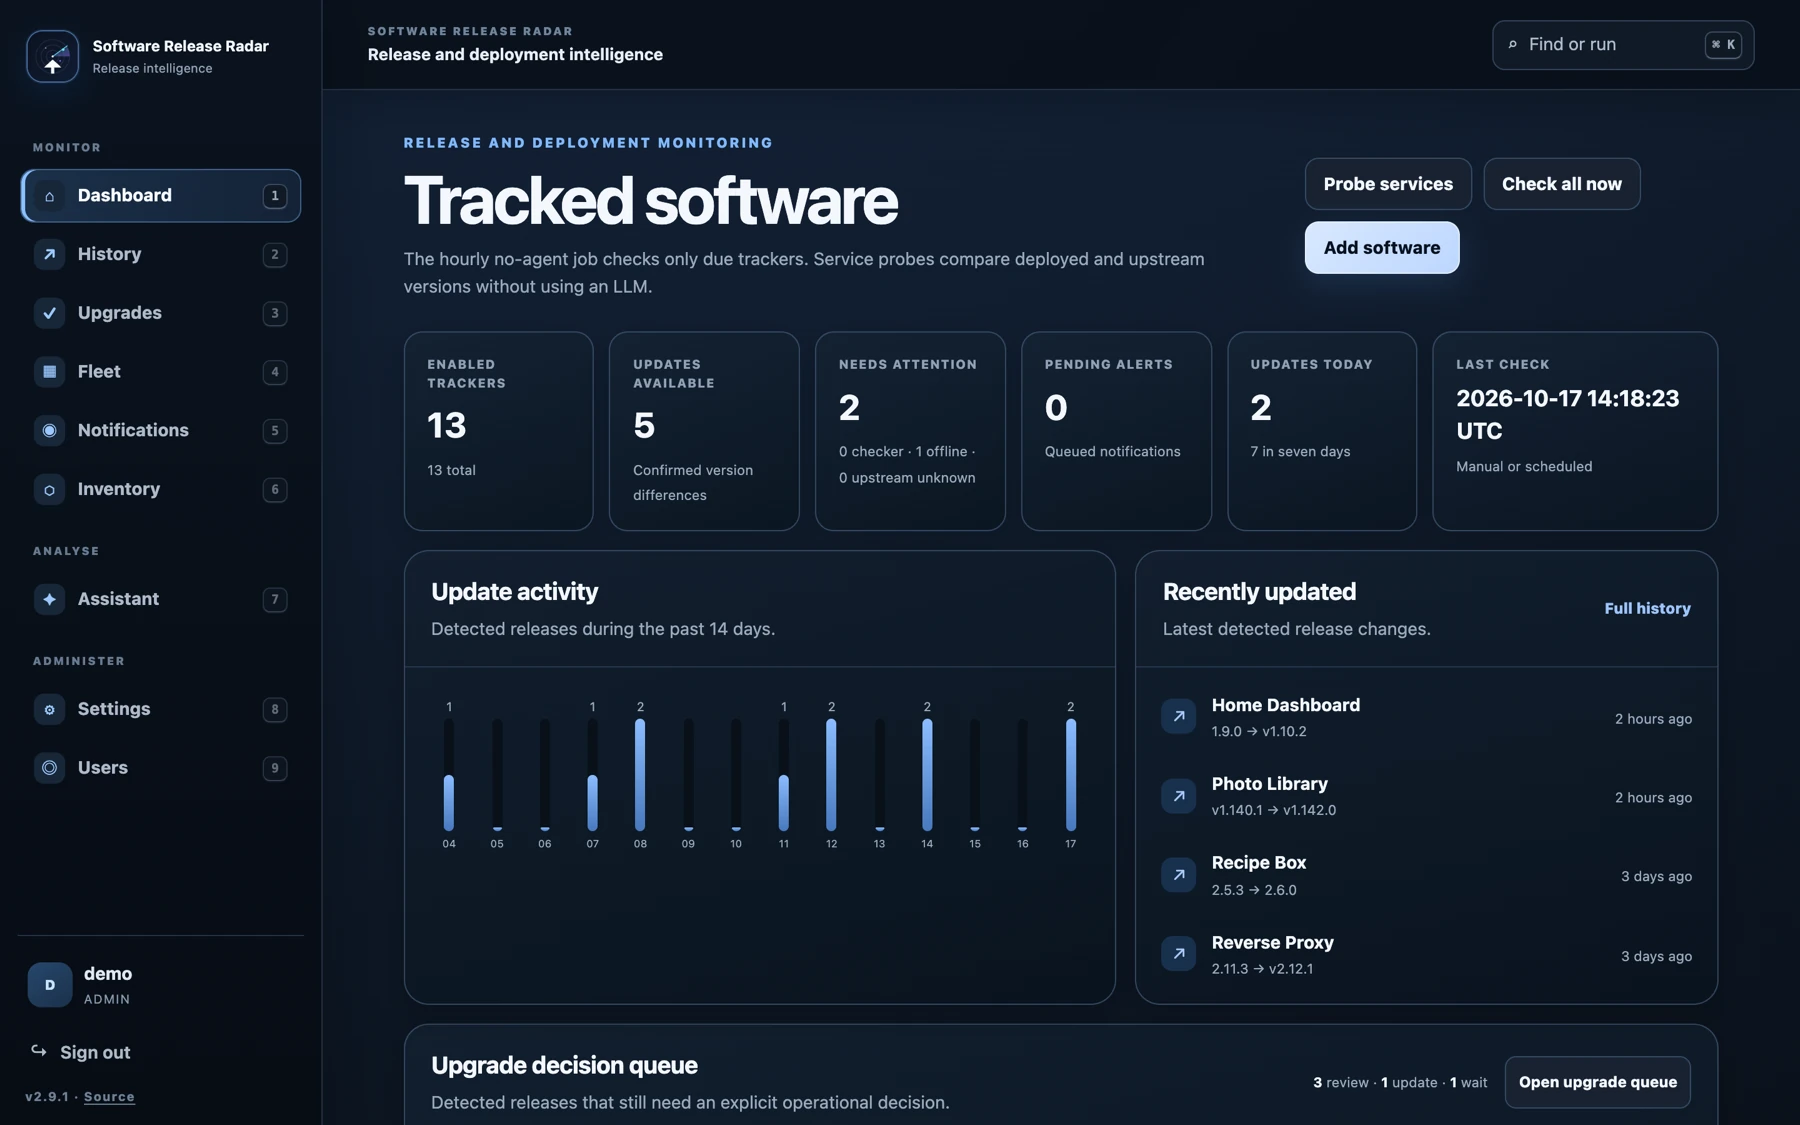
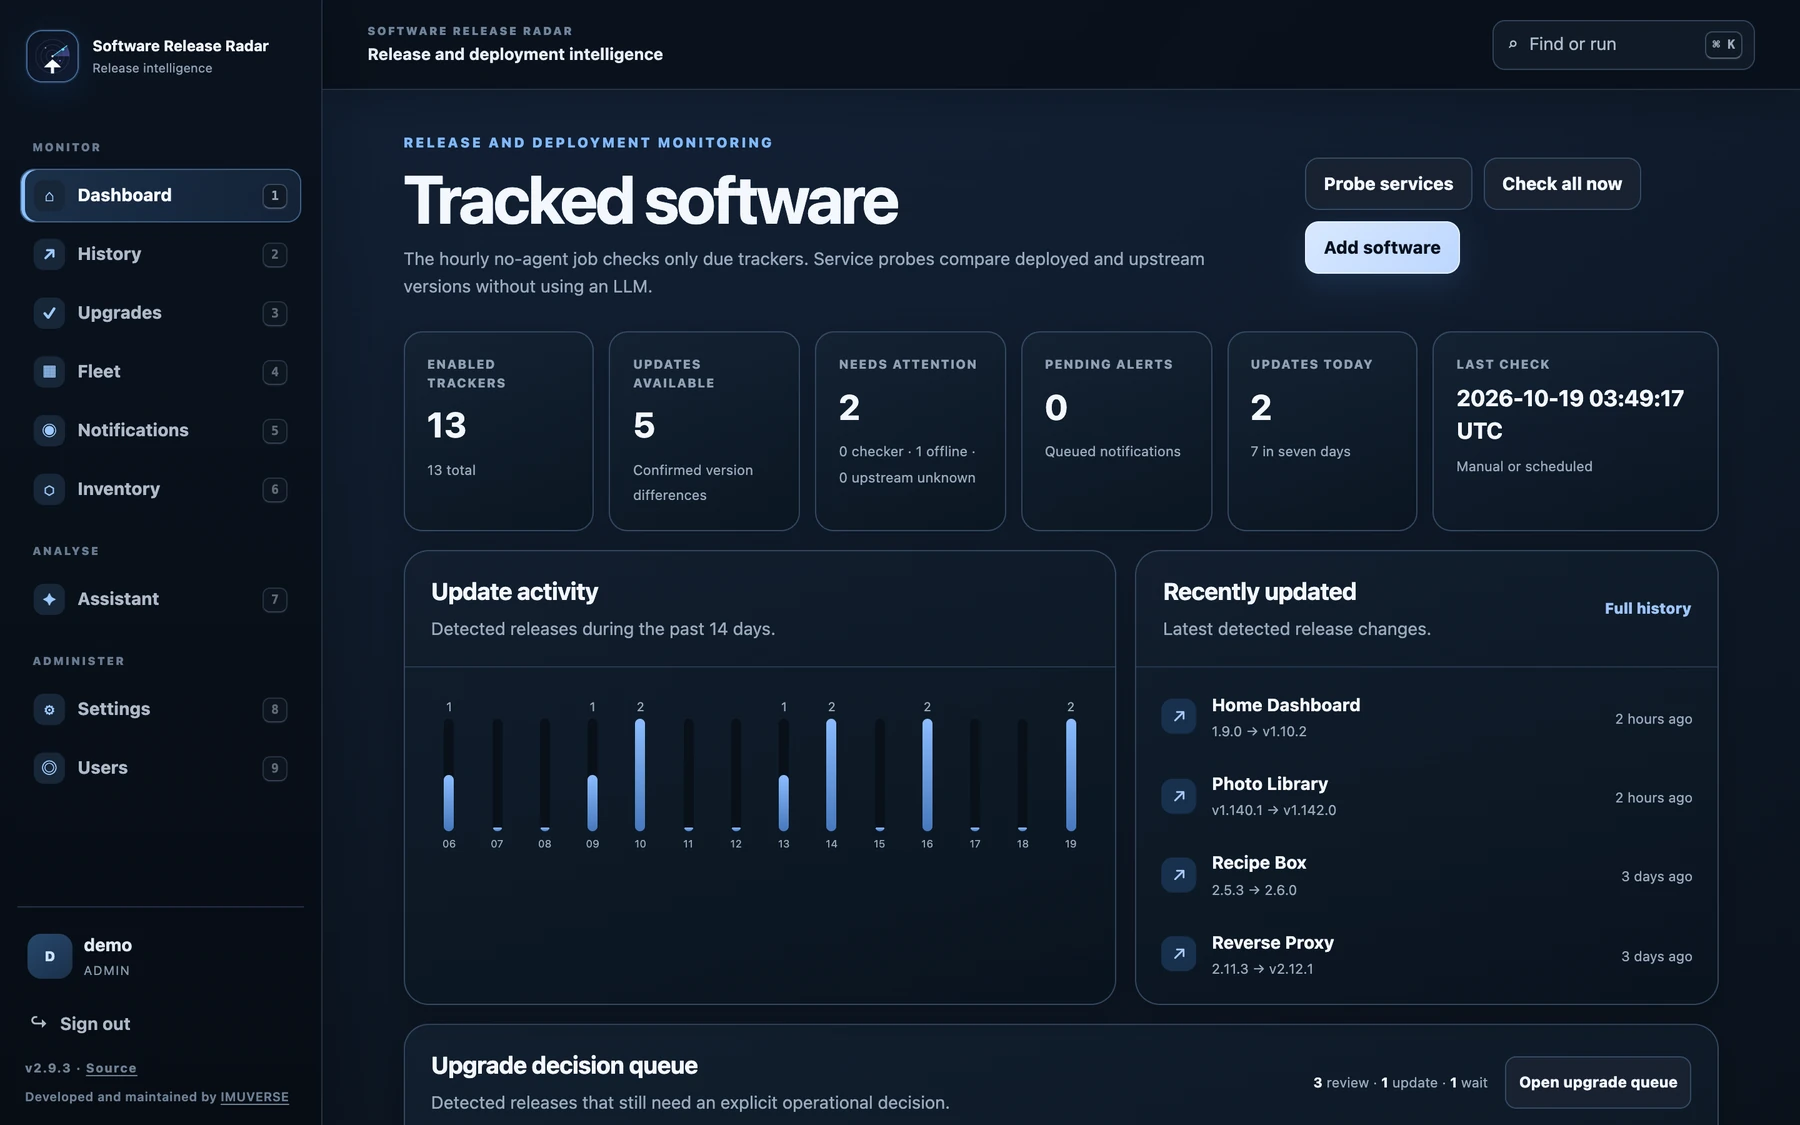
Release v2.9.3 with IMUVERSE attribution (#48)
- State that Software Release Radar is developed and maintained by
  IMUVERSE, linking to https://imuverse.com, in the README header and
  footer, the application sidebar and the sign-in page.
- Refresh the four README screen captures for v2.9.3 from the same
  fictional demo data (invented names, demo-org/* repositories,
  192.0.2.x documentation addresses).
- Bump the version to 2.9.3 and add the changelog entry.

Changed region(s): [[0.0, 0.8089, 0.1556, 0.9956], [0.8711, 0.3422, 0.9333, 0.3733], [0.0622, 0.0311, 0.1244, 0.0622]]

diff --git a/radar/templates/base.html b/radar/templates/base.html
@@ -52,6 +52,7 @@
         <button class="nav-button sign-out-button" type="submit"><span aria-hidden="true">↪</span><span>Sign out</span></button>
       </form>
       <span class="sidebar-version" aria-label="Software Release Radar version">v{{ app_version }} · <a href="https://github.com/muhdusama/Software-Release-Radar" target="_blank" rel="noreferrer">Source</a></span>
+      <span class="sidebar-version sidebar-credit">Developed and maintained by <a href="https://imuverse.com" target="_blank" rel="noreferrer">IMUVERSE</a></span>
     </div>
   </aside>
 

diff --git a/radar/templates/login.html b/radar/templates/login.html
@@ -14,5 +14,6 @@
     <button class="button primary wide" type="submit">Sign in</button>
   </form>
   <a class="subtle-link" href="{{ url_for('forgot_password') }}">Forgot password?</a>
+  <p class="auth-credit">Developed and maintained by <a href="https://imuverse.com" target="_blank" rel="noreferrer">IMUVERSE</a></p>
 </section>
 {% endblock %}

diff --git a/radar/static/ui-polish.css b/radar/static/ui-polish.css
@@ -99,3 +99,6 @@
 .fleet-card:has(.inline-name-editor[open]){position:relative;z-index:30}
 .inline-name-editor[open]{z-index:35}
 .flash+.list-summary{margin-top:12px}
+.sidebar-credit{letter-spacing:.02em;font-weight:600}
+.auth-credit{margin:18px 0 0;color:var(--muted);font-size:12px}
+.auth-credit a{font-weight:700}

diff --git a/tests/test_ui_release_polish.py b/tests/test_ui_release_polish.py
@@ -19,6 +19,9 @@ class UIReleasePolishTests(unittest.TestCase):
         self.assertNotIn("{% set app_version", self.base)
         self.assertIn('class="sidebar-version"', self.base)
         self.assertIn('href="https://github.com/muhdusama/Software-Release-Radar"', self.base)
+        self.assertIn('Developed and maintained by <a href="https://imuverse.com"', self.base)
+        login = (self.root / "radar" / "templates" / "login.html").read_text()
+        self.assertIn('Developed and maintained by <a href="https://imuverse.com"', login)
         self.assertIn('v{{ app_version }}', self.base)
         self.assertIn("filename='ui-polish.css', v=app_version", self.base)
 

diff --git a/radar/version.py b/radar/version.py
@@ -1,1 +1,1 @@
-APP_VERSION = "2.9.2"
+APP_VERSION = "2.9.3"

diff --git a/README.md b/README.md
@@ -3,12 +3,14 @@
 </p>
 
 <p align="center">
-  <img alt="Version 2.9.2" src="https://img.shields.io/badge/version-2.9.2-2f81f7">
+  <img alt="Version 2.9.3" src="https://img.shields.io/badge/version-2.9.3-2f81f7">
   <img alt="Python 3.13 application" src="https://img.shields.io/badge/app-Python%203.13-3776AB?logo=python&logoColor=white">
   <img alt="Docker Compose deployment" src="https://img.shields.io/badge/deploy-Docker%20Compose-2496ED?logo=docker&logoColor=white">
   <img alt="AGPL 3.0 licence" src="https://img.shields.io/badge/licence-AGPL--3.0-663399">
   <img alt="AI is optional" src="https://img.shields.io/badge/AI-optional-64748b">
 </p>
+
+<p align="center">Developed and maintained by <a href="https://imuverse.com"><strong>IMUVERSE</strong></a></p>
 
 <p align="center">
   <a href="#-quick-start">Quick start</a> ·
@@ -22,7 +24,7 @@
 </p>
 
 > [!IMPORTANT]
-> **Latest release: [v2.9.2](https://github.com/muhdusama/Software-Release-Radar/releases/latest).** This maintenance update fixes a Fleet layout overlap, removes Gunicorn's unused control-socket start-up error and restricts backup file permissions. v2.9 also includes Dockhand inventory, global notification defaults and strengthened integration security. Multi-architecture images are published to GHCR. See the [changelog](CHANGELOG.md).
+> **Latest release: [v2.9.3](https://github.com/muhdusama/Software-Release-Radar/releases/latest).** This update adds IMUVERSE attribution in the application. Recent v2.9 maintenance fixed a Fleet layout overlap, removed Gunicorn's unused control-socket start-up error and restricted backup file permissions. v2.9 also includes Dockhand inventory, global notification defaults and strengthened integration security. Multi-architecture images are published to GHCR. See the [changelog](CHANGELOG.md).
 
 # 📡 What is Software Release Radar?
 
@@ -132,7 +134,7 @@ Read **[docs/DOCKER.md](docs/DOCKER.md)** before exposing Release Radar beyond a
 
 # 🖼 Preview
 
-Screenshots of v2.9.1. They use fictional demo data only: invented software names, `demo-org/*` repositories and `192.0.2.x` documentation addresses.
+Screenshots of v2.9.3. They use fictional demo data only: invented software names, `demo-org/*` repositories and `192.0.2.x` documentation addresses.
 
 ### Dashboard
 
@@ -320,9 +322,9 @@ The release candidate is tested as a complete lifecycle, not only as a Docker im
 | Persistent state after Compose restart | ✅ Passed |
 | Clean macOS Docker Desktop acceptance | ✅ Passed at v2.9.0 |
 | Visual review of clean deployment | ✅ Passed at v2.9.0; v2.9.1 preview screenshots reviewed |
-| Final privacy and secret scan after version freeze | ✅ Passed at v2.9.0; v2.9.2 public diff reviewed |
+| Final privacy and secret scan after version freeze | ✅ Passed at v2.9.0; v2.9.3 public diff reviewed |
 
-The automated gates run in CI on every pull request and on `main`. The macOS acceptance and full version-freeze gates were last run at v2.9.0; they are not presented as repeated v2.9.2 tests. v2.9.2 also includes fixes from the two merged pull requests and refreshed demo-only documentation screenshots.
+The automated gates run in CI on every pull request and on `main`. The macOS acceptance and full version-freeze gates were last run at v2.9.0; they are not presented as repeated v2.9.3 tests. v2.9.3 also includes fixes from the two merged pull requests and refreshed demo-only documentation screenshots.
 
 The public repository was launched at v2.7.0 from a sanitised, clean Git history after a final GitHub safety-settings review. See **[ROADMAP.md](ROADMAP.md)** for the launch checklist.
 
@@ -457,3 +459,5 @@ Financial support is optional. The project remains available under its open-sour
 </p>
 
 <p align="center"><strong>Track releases. Compare versions. Know what changed.</strong></p>
+
+<p align="center">Developed and maintained by <a href="https://imuverse.com">IMUVERSE</a> · <a href="https://imuverse.com">imuverse.com</a></p>

diff --git a/ROADMAP.md b/ROADMAP.md
@@ -6,7 +6,7 @@
 
 Software Release Radar is a public self-hosted project designed so another person can install, understand and operate it without knowing anything about the private environment where it was created.
 
-The first public release is **v2.7.0**. The current public release baseline is **v2.9.2**, with ongoing maintenance active.
+The first public release is **v2.7.0**. The current public release baseline is **v2.9.3**, with ongoing maintenance active.
 
 <p align="center">
   <a href="#-current-position">📍 Current position</a> ·
@@ -22,7 +22,7 @@ The first public release is **v2.7.0**. The current public release baseline is *
 
 | Area | Status | Notes |
 |---|---|---|
-| Current public release | ✅ v2.9.2 | Current version recorded in `VERSION` and the changelog |
+| Current public release | ✅ v2.9.3 | Current version recorded in `VERSION` and the changelog |
 | Sanitised application source | ✅ Passed | Imported without private Gitea history |
 | AGPL-3.0 licensing | ✅ Passed | Repository licence is GNU AGPL-3.0 |
 | Docker image and Compose stack | ✅ Passed | Web app, automatic scheduler and inventory worker |

diff --git a/docs/GITHUB-WORKFLOW.md b/docs/GITHUB-WORKFLOW.md
@@ -100,7 +100,7 @@ curl -fsS http://localhost:9120/healthz
 When a build revision was supplied, the health response includes a `commit` field:
 
 ```json
-{"commit":"0123456789abcdef0123456789abcdef01234567","name":"Software Release Radar","status":"ok","version":"2.9.2"}
+{"commit":"0123456789abcdef0123456789abcdef01234567","name":"Software Release Radar","status":"ok","version":"2.9.3"}
 ```
 
 The same revision is stored in the container image label:
@@ -120,10 +120,10 @@ A tag matching `v<VERSION>` runs the container publishing workflow. The workflow
 Example verification:
 
 ```bash
-docker pull ghcr.io/muhdusama/software-release-radar:2.9.2
+docker pull ghcr.io/muhdusama/software-release-radar:2.9.3
 docker image inspect \
   --format '{{ index .Config.Labels "org.opencontainers.image.revision" }}' \
-  ghcr.io/muhdusama/software-release-radar:2.9.2
+  ghcr.io/muhdusama/software-release-radar:2.9.3
 ```
 
 Release tags are immutable deployment references. Normal development should use branches and pull requests rather than committing directly on a production host.

diff --git a/docs/CONFIGURATION.md b/docs/CONFIGURATION.md
@@ -19,7 +19,7 @@ The recommended `bash scripts/setup.sh` flow creates `.env` for you.
 
 | Variable | Required | Default | Purpose |
 |---|---:|---|---|
-| `RADAR_VERSION` | yes | `2.9.2` | Image and build version label |
+| `RADAR_VERSION` | yes | `2.9.3` | Image and build version label |
 | `RADAR_BIND_ADDRESS` | yes | `0.0.0.0` | Address used to publish the web port on the Docker host |
 | `RADAR_PORT` | yes | `9120` | Host port for the web interface |
 | `RADAR_SCHEDULER_INTERVAL_SECONDS` | yes | `60` | How often the scheduler looks for trackers that are due |

diff --git a/FEATURE_VOTING.md b/FEATURE_VOTING.md
@@ -140,7 +140,7 @@ When a roadmap poll changes priorities, the roadmap should be updated so the res
 
 ## 📍 Current state
 
-The public release baseline is established at **v2.9.2**, and ongoing maintenance is active.
+The public release baseline is established at **v2.9.3**, and ongoing maintenance is active.
 
 Feature voting can now help prioritise improvements, while security, data integrity, deterministic monitoring, backwards compatibility and reliable self-hosted upgrades remain release gates for every change.
 

diff --git a/CHANGELOG.md b/CHANGELOG.md
@@ -6,6 +6,16 @@ The format is based on [Keep a Changelog](https://keepachangelog.com/en/1.1.0/) 
 
 ## [Unreleased]
 
+## [2.9.3] - 2026-10-19
+
+### Changed
+
+- The sidebar and sign-in page now show that Software Release Radar is developed and maintained by IMUVERSE, with a link to imuverse.com.
+
+### Documentation
+
+- Added IMUVERSE attribution to the README and refreshed the preview screen captures for v2.9.3, still using fictional demo data only.
+
 ## [2.9.2] - 2026-10-18
 
 ### Fixed

diff --git a/docs/DOCKER.md b/docs/DOCKER.md
@@ -70,10 +70,10 @@ Check the health endpoint:
 curl -fsS http://localhost:9120/healthz
 ```
 
-Expected shape for v2.9.2:
+Expected shape for v2.9.3:
 
 ```json
-{"name":"Software Release Radar","status":"ok","version":"2.9.2"}
+{"name":"Software Release Radar","status":"ok","version":"2.9.3"}
 ```
 
 View recent logs:
